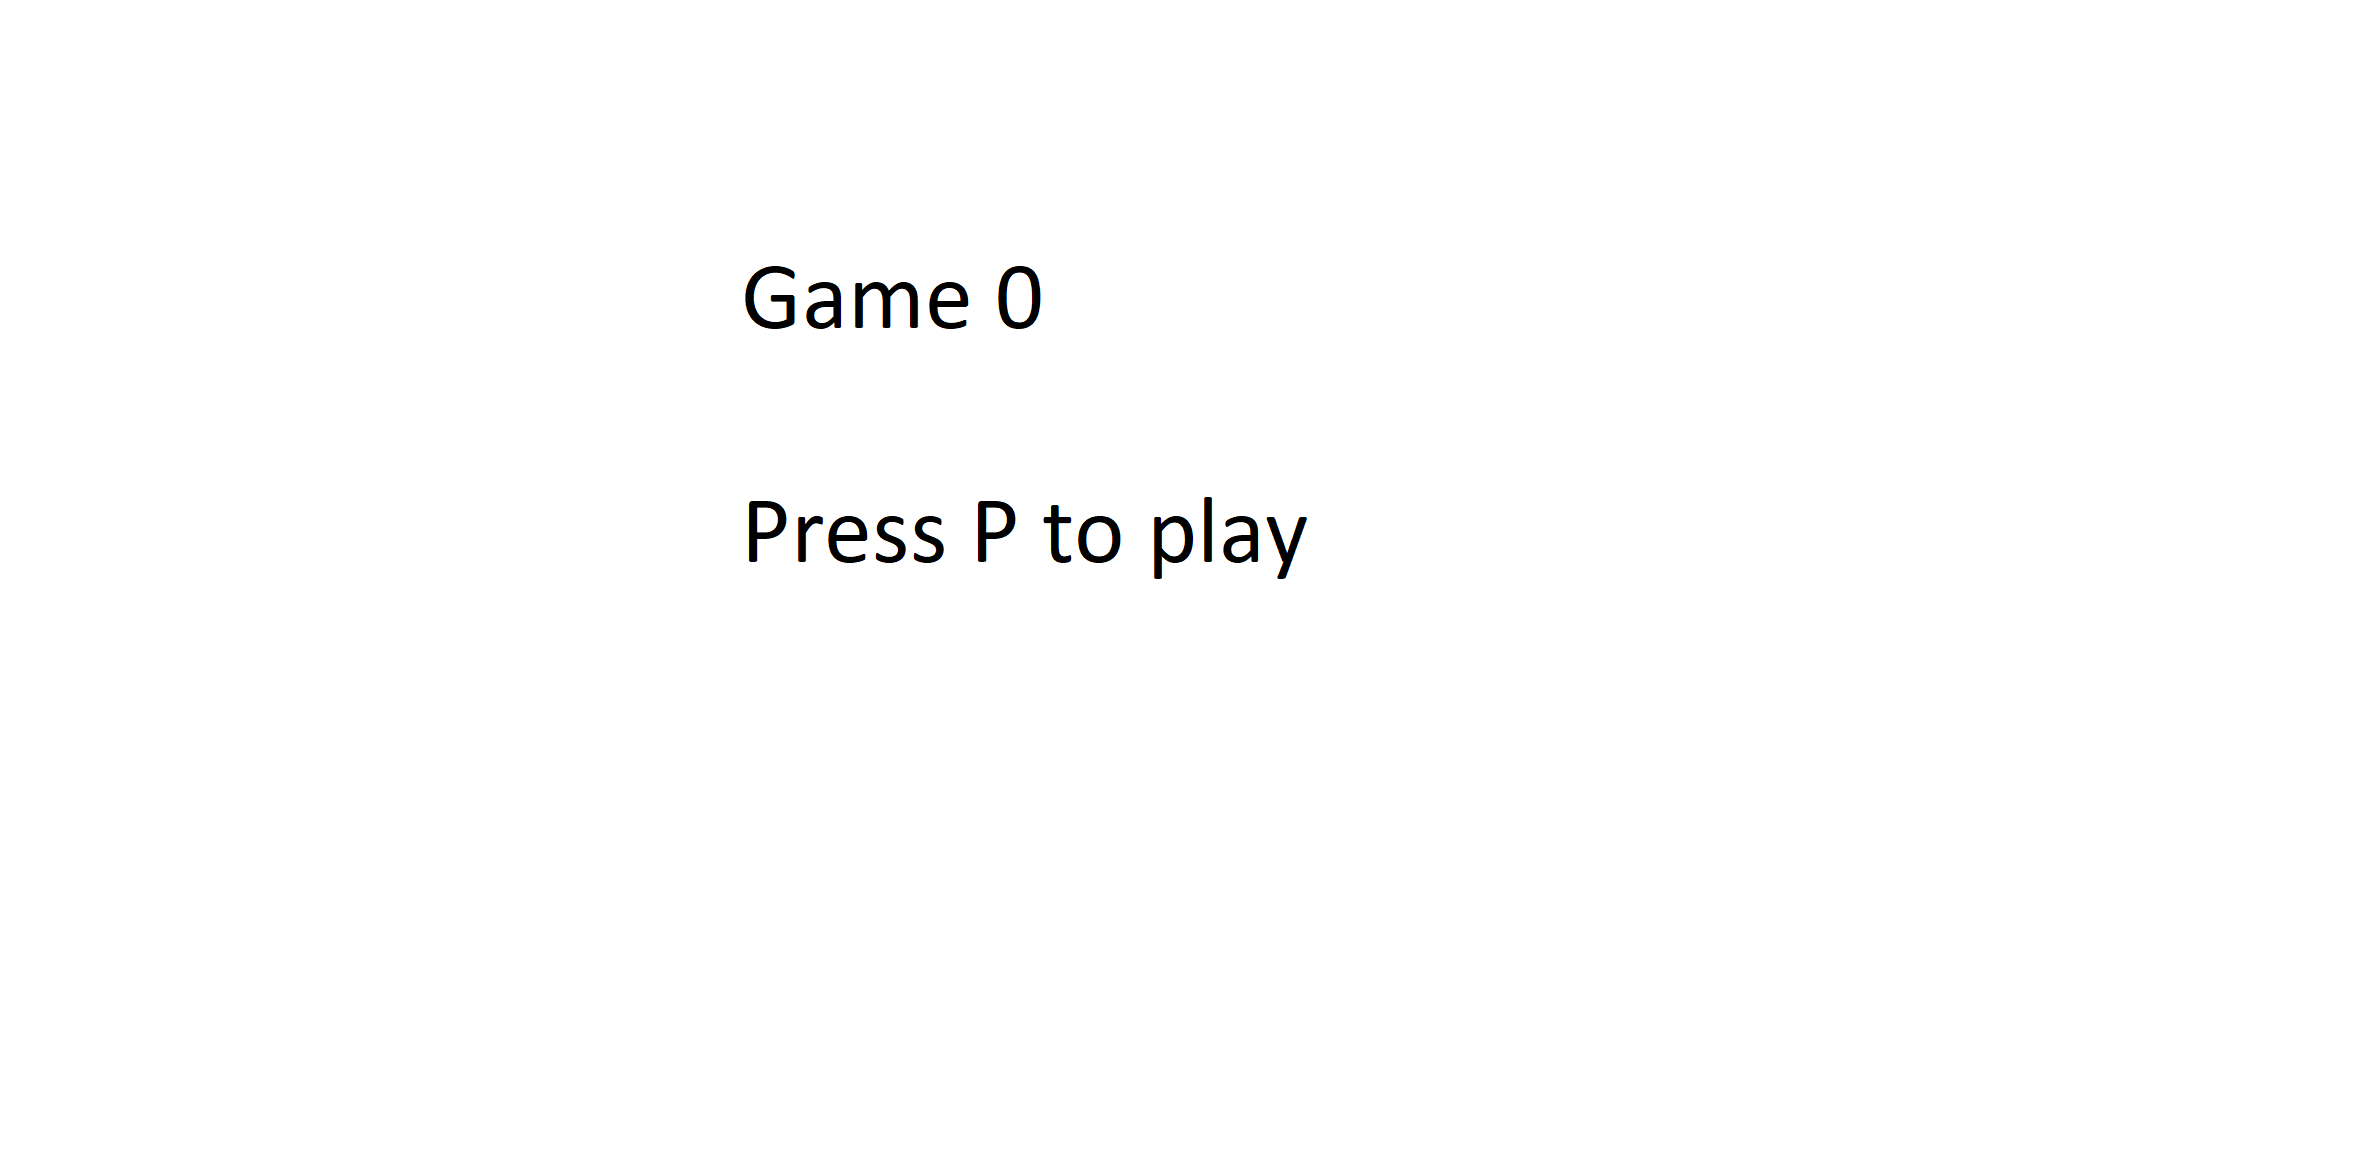
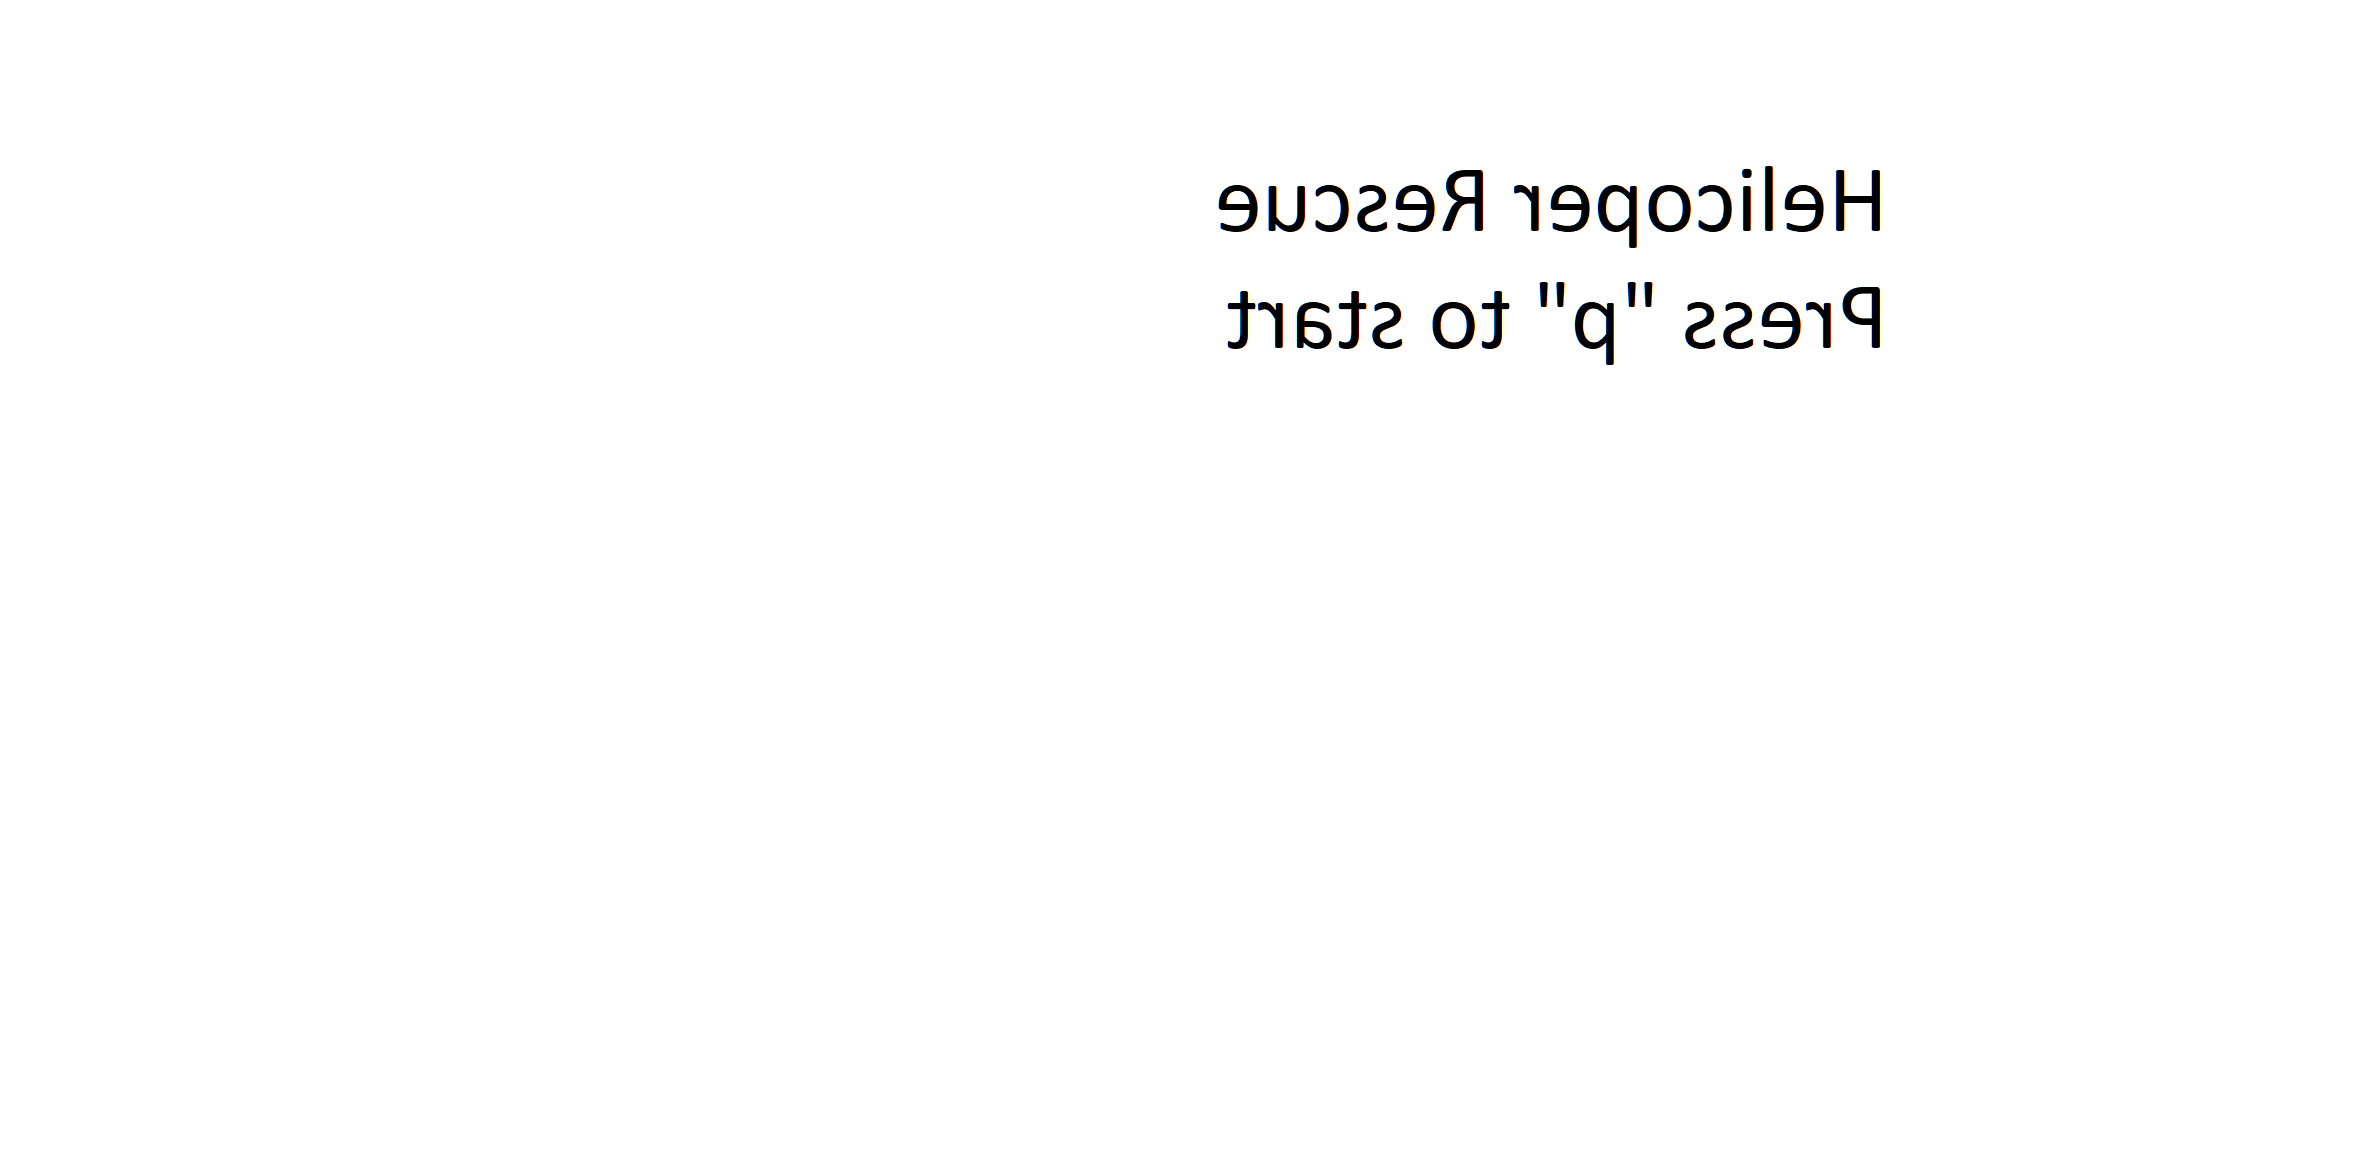
New Start Screen

diff --git a/game0.js b/game0.js
@@ -592,6 +592,12 @@ The user moves a cube around the board trying to knock balls into a cone
 			//addBalls();
 			return;
 		}
+		if(event.key == '5') {
+
+			createLevel2();
+			gameState.scene = 'level2';
+			gameState.score = 0;
+		}
 		// this is the regular scene
 		switch (event.key){
 			// change the way the avatar is moving
@@ -616,7 +622,7 @@ The user moves a cube around the board trying to knock balls into a cone
 			case "1": gameState.camera = camera; break;
 			case "2": gameState.camera = avatarCam; break;
       case "3": gameState.camera = edgeCam; break;
-
+			case "5": gameState.scene = 'level2'; break;
 			// move the camera around, relative to the avatar
 			case "ArrowLeft": avatarCam.translateY(1);break;
 			case "ArrowRight": avatarCam.translateY(-1);break;
@@ -660,6 +666,11 @@ The user moves a cube around the board trying to knock balls into a cone
 			return;
 		}
 
+	}
+
+	function 5(event) {
+
+		createLevel2();
 	}
 
 	function color(event) {
@@ -745,6 +756,7 @@ The user moves a cube around the board trying to knock balls into a cone
 				break;
 
 				case "level2":
+					renderer.render(level2Scene, level2Camera);
 					updateAvatar();
 					edgeCam.lookAt(avatar.position);
 					scene.simulate();
